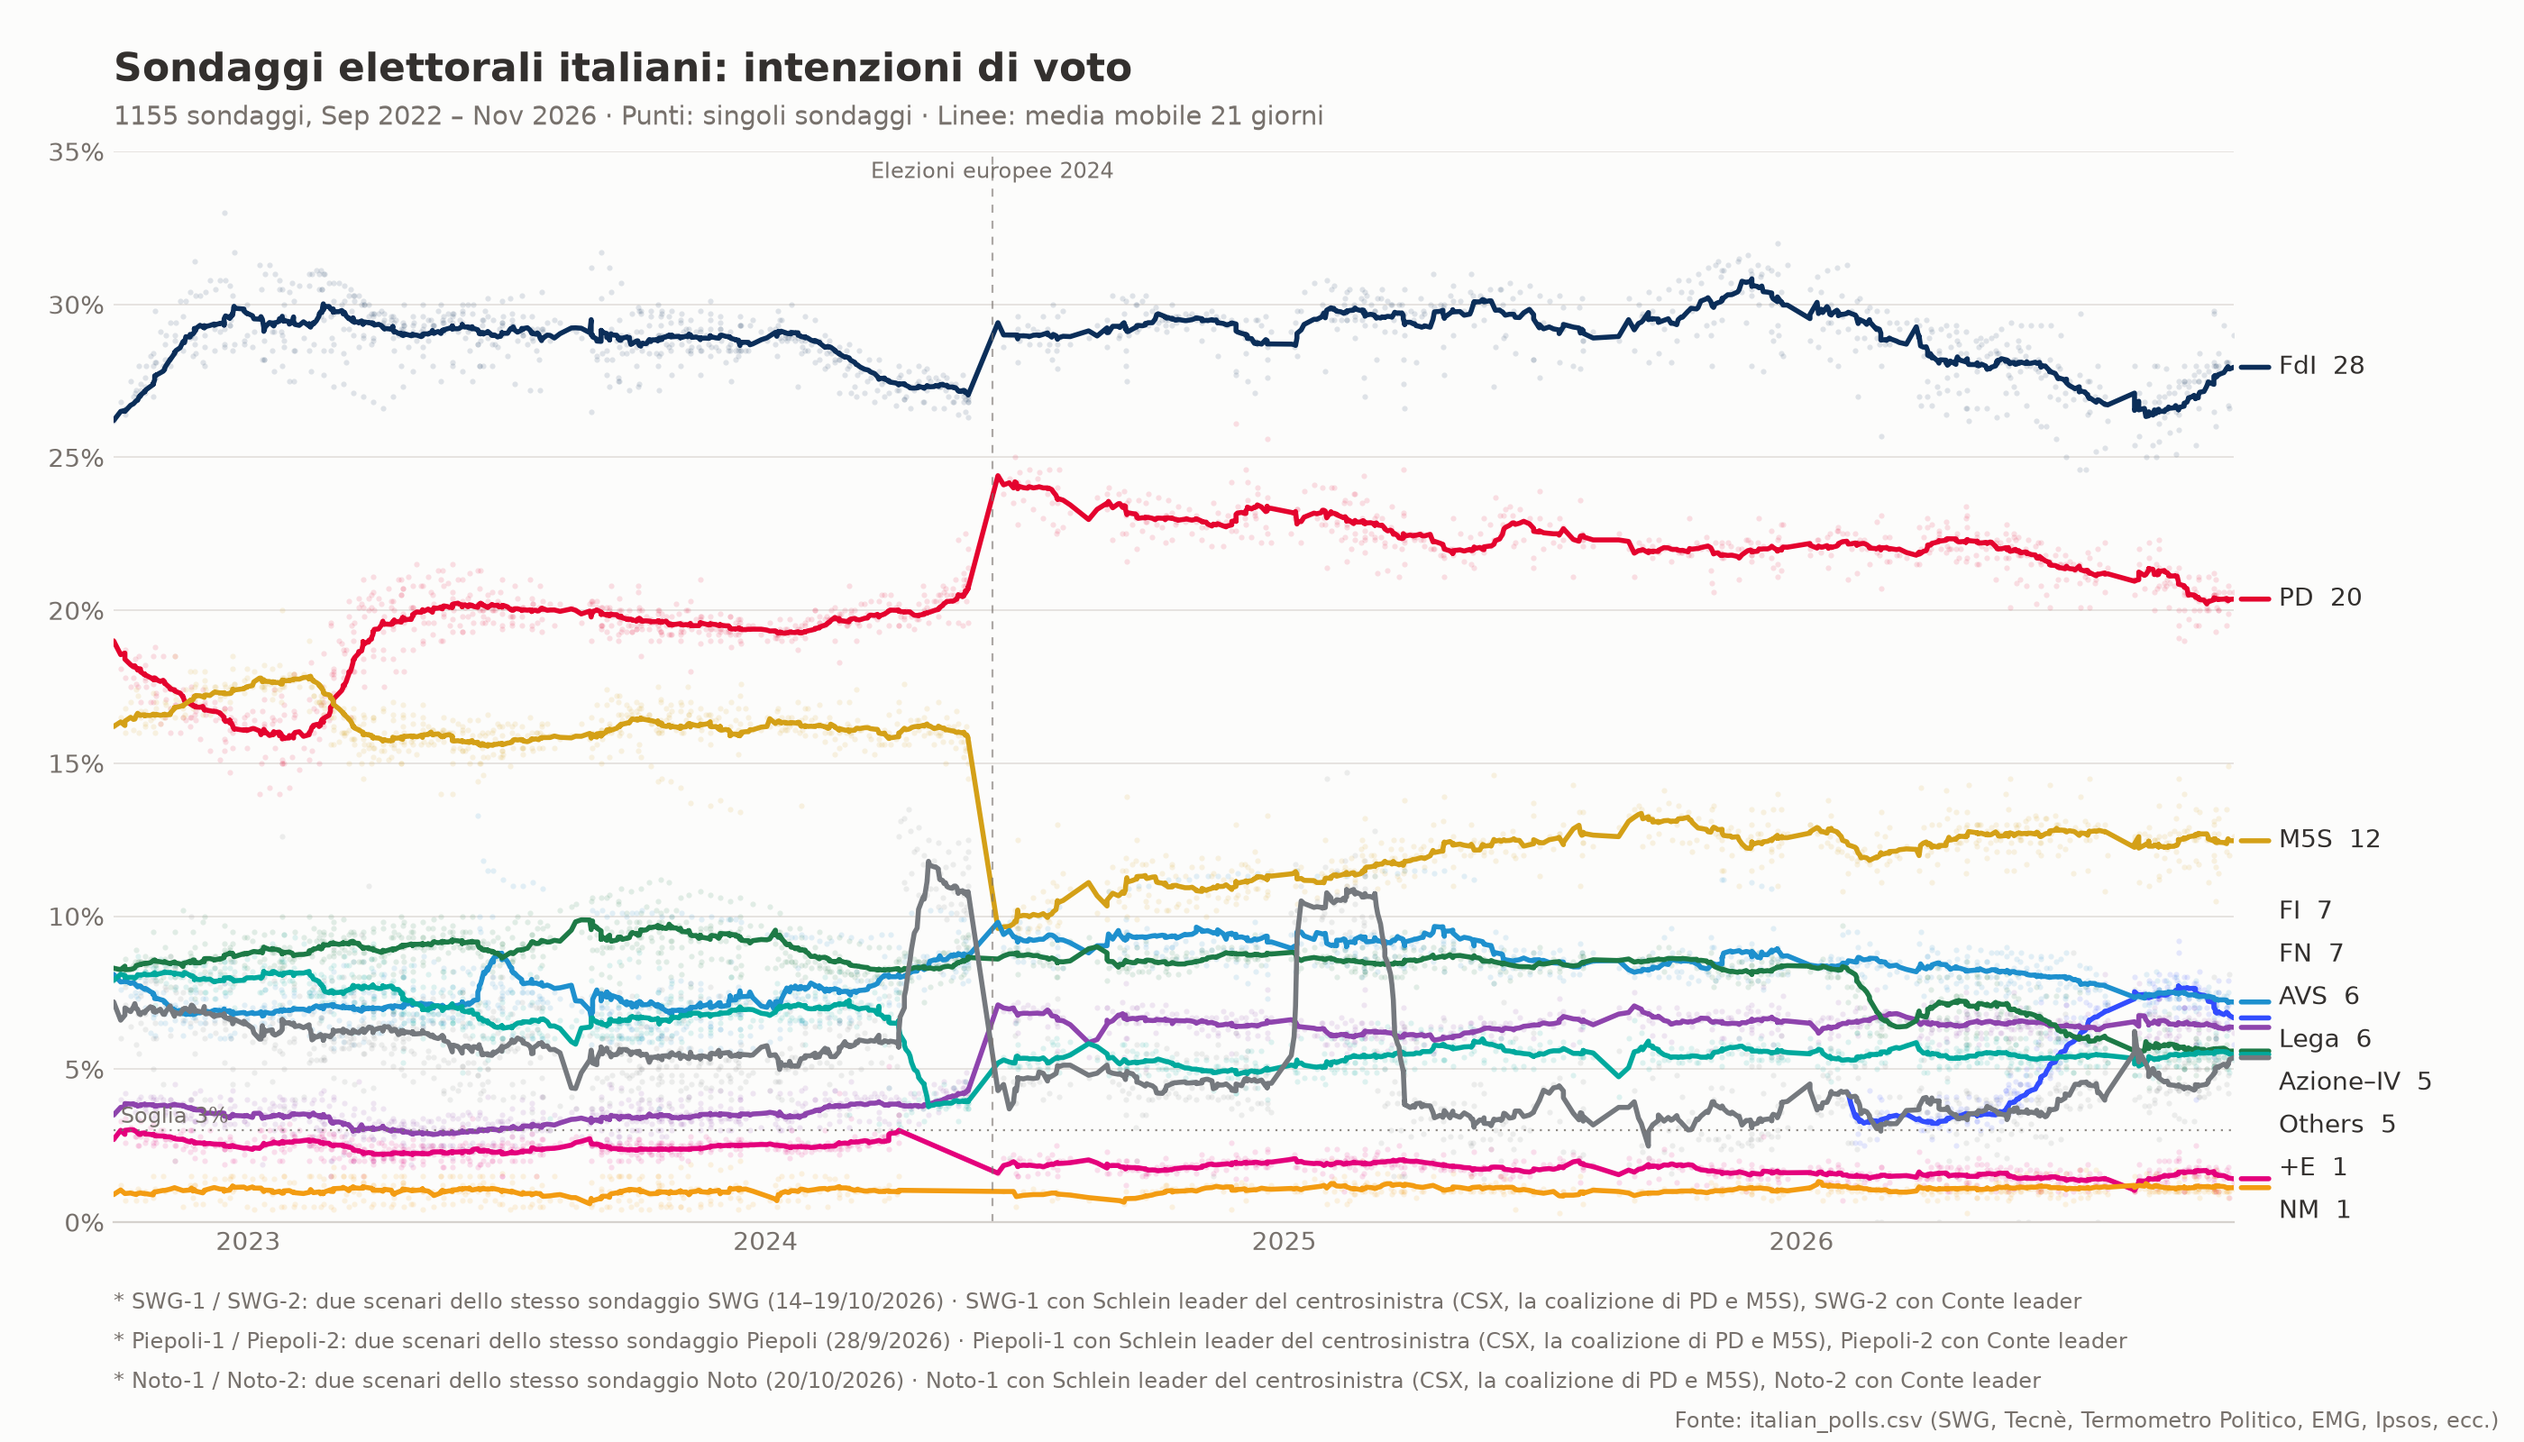
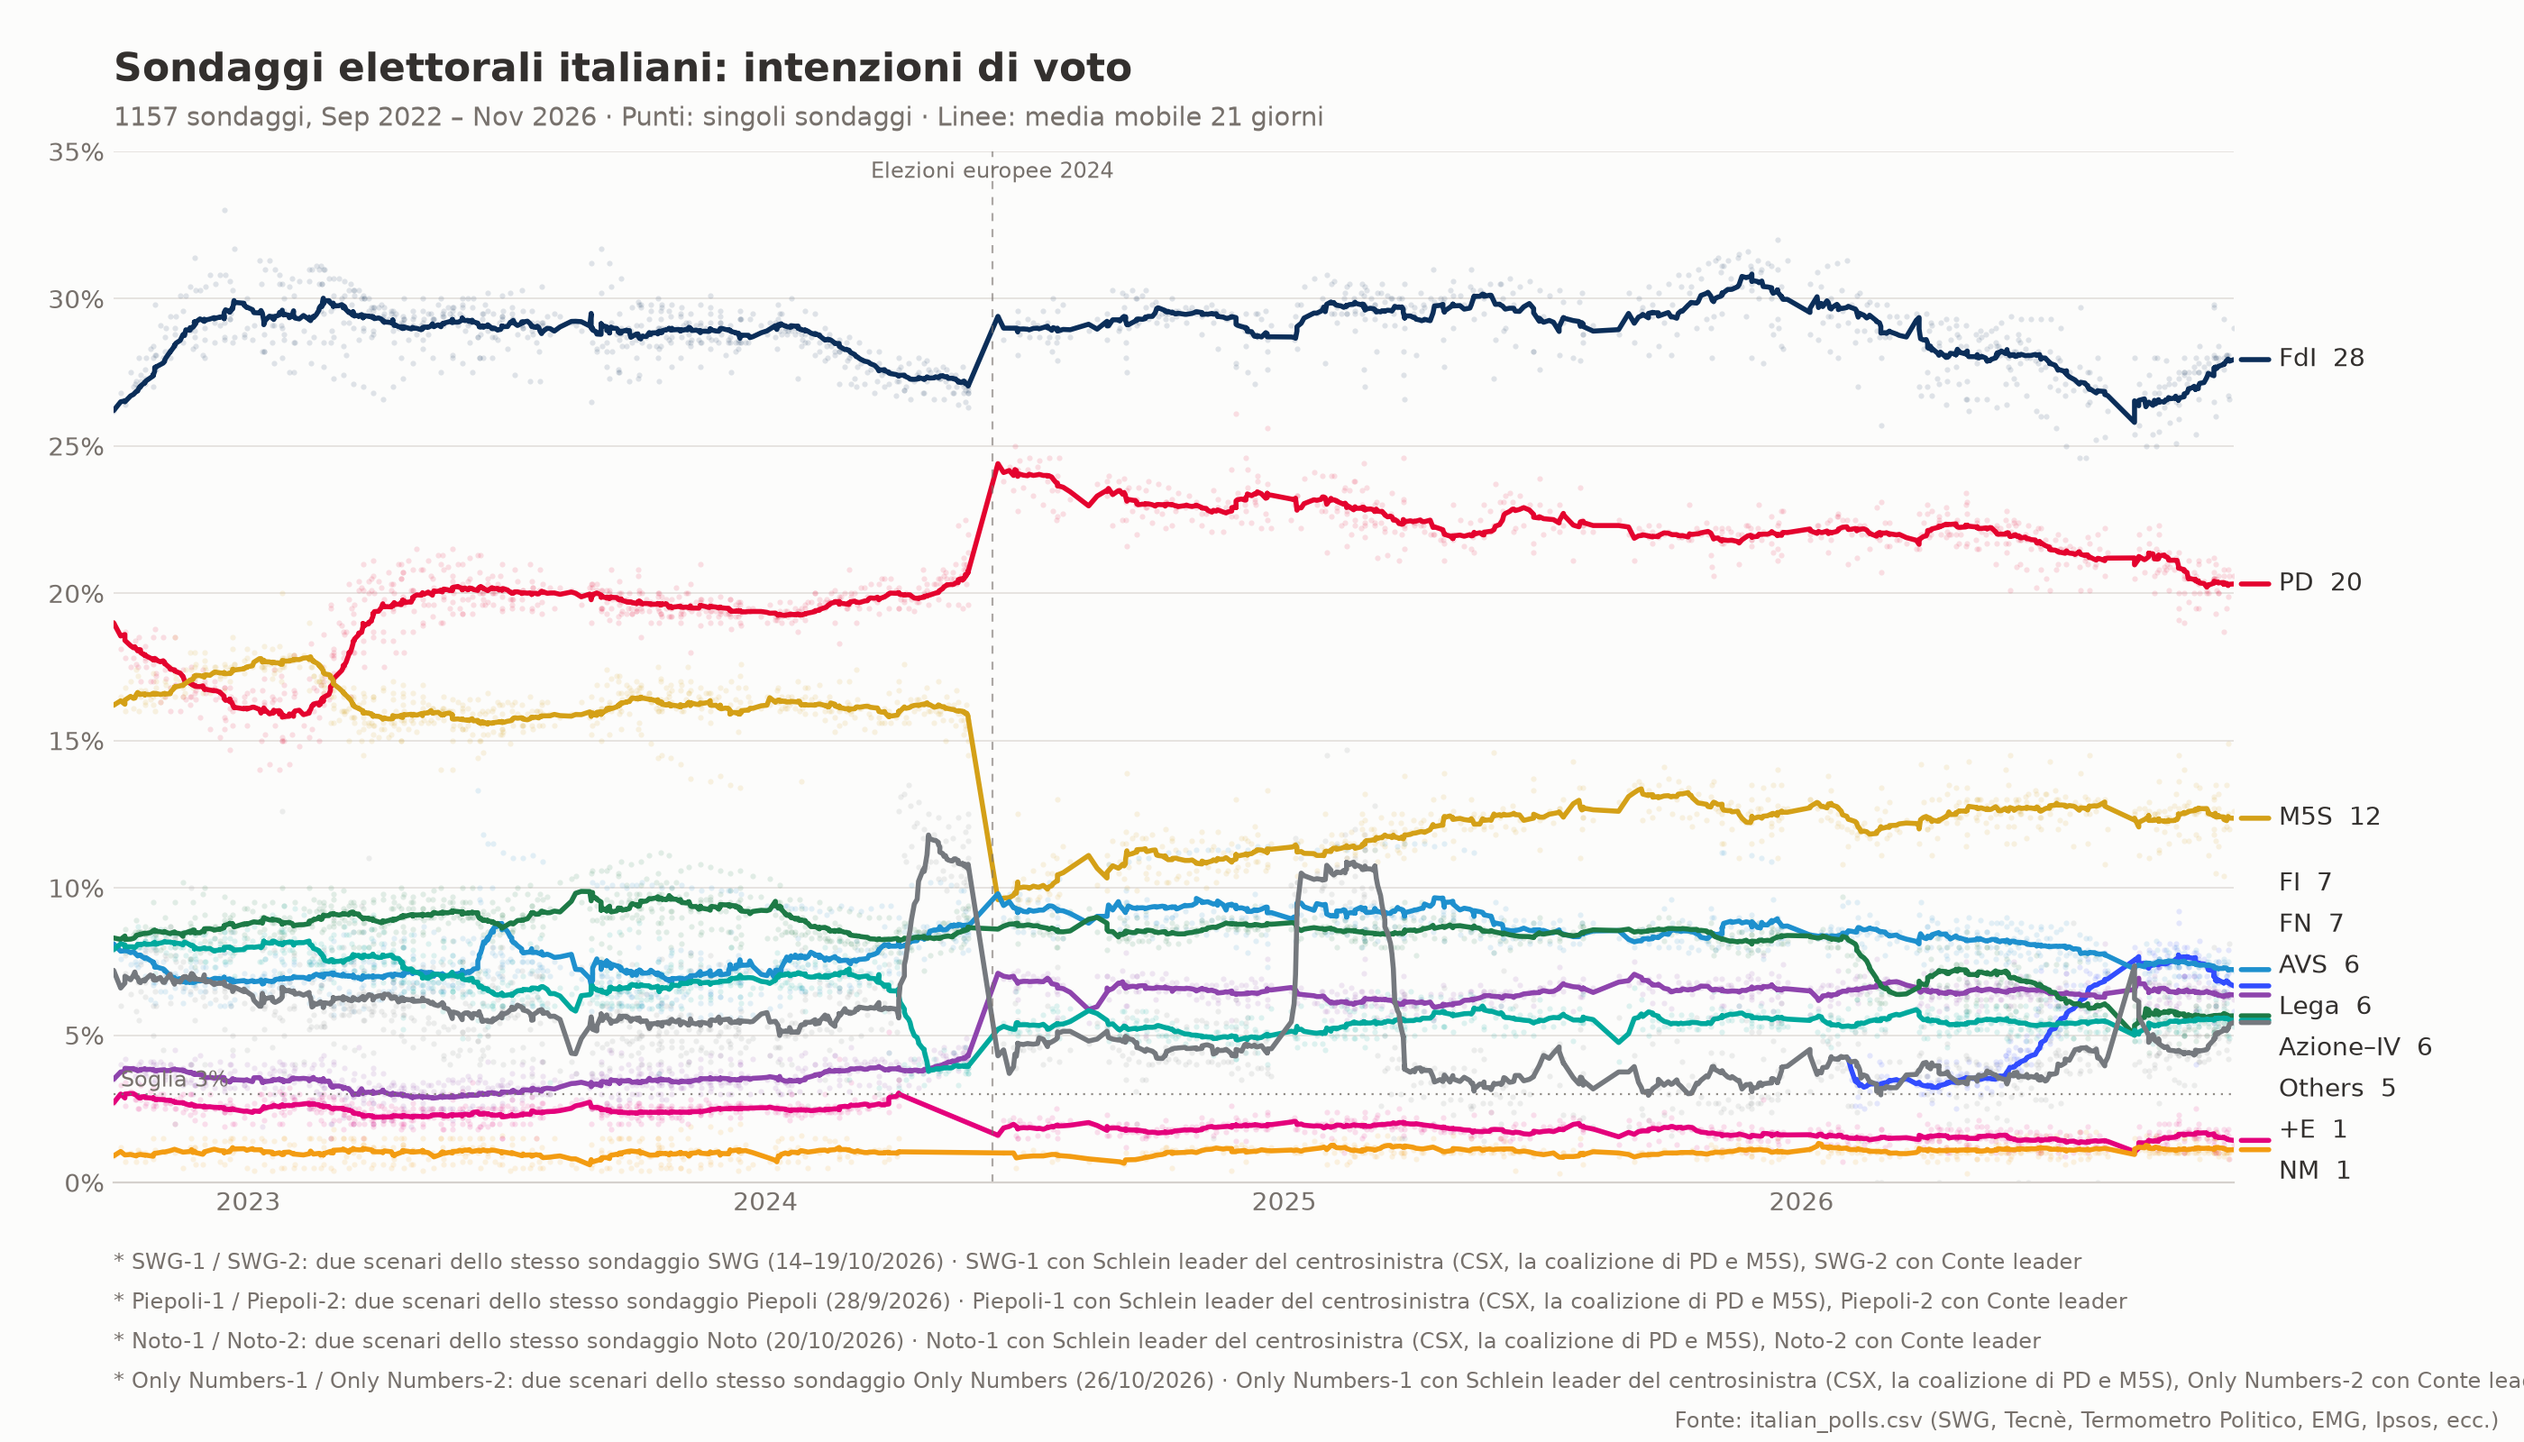
Add Only Numbers poll (2026-10-26, Schlein/Conte CSX-leader scenarios)
Tagged Only Numbers-1 (Schlein) / Only Numbers-2 (Conte), matching the
existing SWG-1/2, Noto-1/2, Piepoli-1/2 scenario convention. Footnote
added to SCENARIO_NOTES in main.py.

diff --git a/main.py b/main.py
@@ -67,6 +67,11 @@ SCENARIO_NOTES = {
         "Noto-1 con Schlein leader del centrosinistra (CSX, la coalizione di PD e M5S), "
         "Noto-2 con Conte leader"
     ),
+    frozenset({"Only Numbers-1", "Only Numbers-2"}): (
+        "Only Numbers-1 / Only Numbers-2: due scenari dello stesso sondaggio Only Numbers (26/10/2026) · "
+        "Only Numbers-1 con Schlein leader del centrosinistra (CSX, la coalizione di PD e M5S), "
+        "Only Numbers-2 con Conte leader"
+    ),
 }
 
 INK = "#33302e"
